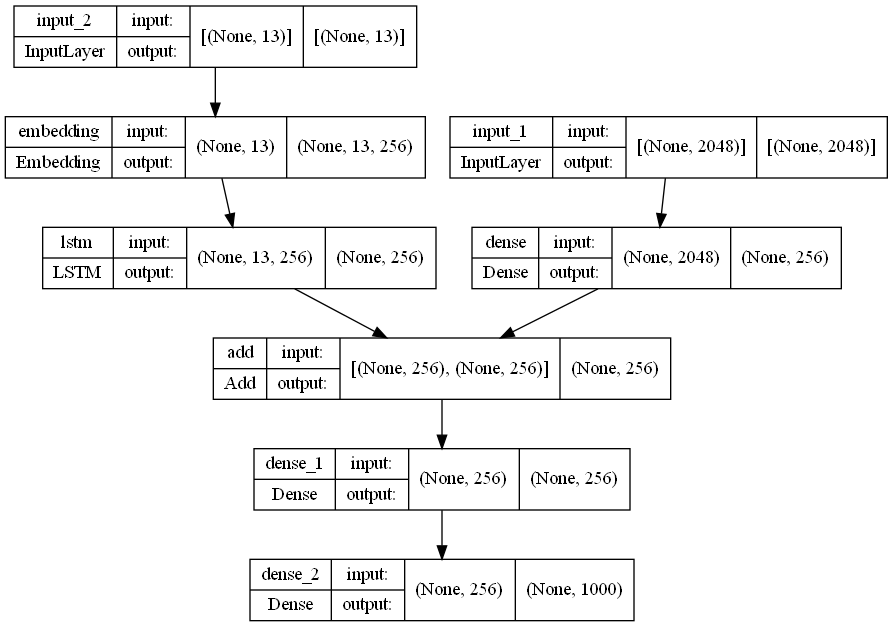
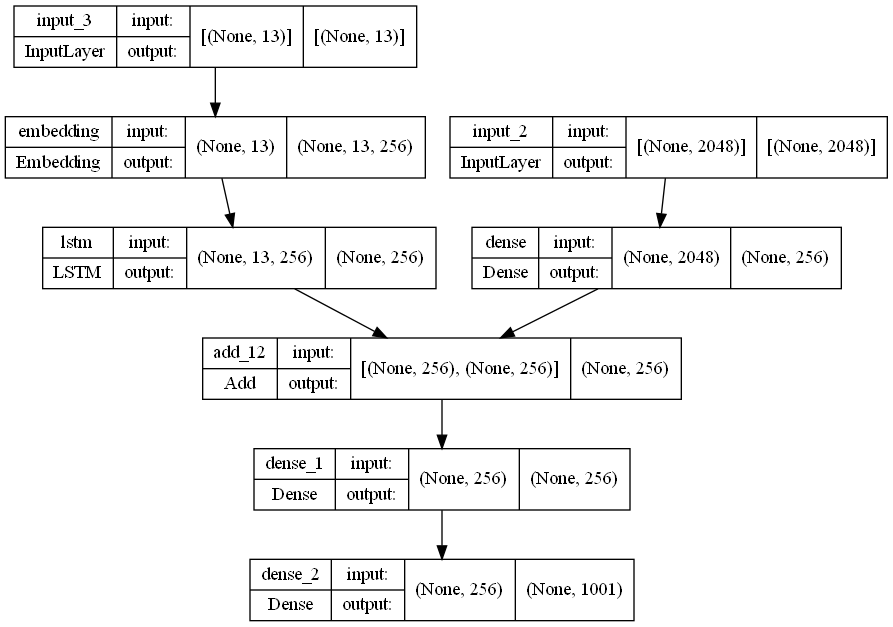
Finish base implementation

Changed region(s): [[0.2116, 0.5455, 0.7559, 0.6364]]

diff --git a/equation_parser/equation_generator.py b/equation_parser/equation_generator.py
@@ -65,9 +65,6 @@ def to_clean_tokens(rand_numbers):
 
 
 class EquationGenerator:
-    def __init__(self, feature_extractor_model):
-        self.feature_extractor_model = feature_extractor_model
-
     def generate_equation_image(self, dpi=600, cache=True) -> (Image, str):
         rand_numbers = [rand_frac_number() for _ in range(6)]
         eq_latex = r'\frac{{{a_num}}}{{{a_denom}}}+\frac{{{b_num}}}{{{b_denom}}}=\frac{{{c_num}}}{{{c_denom}}}'.format(
@@ -105,8 +102,7 @@ class EquationGenerator:
                 writer.writerow(TOKENS_HEADERS)
 
         cached_eq_id = self.cache_image(eq_image, eq_tokens)
-        features = self.cache_image_features(eq_image, cached_eq_id)
-        return (eq_image, eq_tokens, features, cached_eq_id)
+        return (cached_eq_id, eq_tokens)
 
     def cache_image(self, eq_image, eq_tokens):
         eq_id = uuid.uuid4()
@@ -116,28 +112,7 @@ class EquationGenerator:
 
         eq_image.save(f'{CACHE_DIR}/{eq_id}.bmp')
 
-        return eq_id
-
-    def cache_image_features(self, eq_image, uuid):
-        features_filename = f'{CACHE_DIR}/{FEATURES_FILENAME_PREFIX}-{uuid}.p'
-        if os.path.isfile(features_filename):
-            return
-
-        eq_image = eq_image.resize(
-            (100, 100), resample=PIL.Image.BILINEAR)
-        eq_image = eq_image.convert('RGB')
-        eq_image_data = image.img_to_array(eq_image)
-        image_to_predict = np.expand_dims(eq_image_data, axis=0)
-
-        features = self.feature_extractor_model.predict(image_to_predict)
-        features = np.array(features[0]).astype('float32')
-        pickle.dump(features, open(features_filename, 'wb'))
-
-        return features
-
-    def features_from_equation_id(self, eq_id):
-        feature_filename = f'{CACHE_DIR}/{FEATURES_FILENAME_PREFIX}-{eq_id}.p'
-        return pickle.load(open(feature_filename, 'rb'))
+        return str(eq_id)
 
     def images_cached(self):
         return os.path.isdir(CACHE_DIR) and len(
@@ -154,14 +129,6 @@ class EquationGenerator:
             for row in reader:
                 eq_id = row[TOKENS_HEADERS[0]]
                 tokens = row[TOKENS_HEADERS[1]]
-
-                if os.path.isfile(f'{CACHE_DIR}/{eq_id}.bmp'):
-                    eq_image = PIL.Image.open(f'{CACHE_DIR}/{eq_id}.bmp')
-                else:
-                    eq_image = None
-
-                features = self.features_from_equation_id(eq_id)
-
-                equations.append((eq_image, tokens, features, eq_id))
+                equations.append((eq_id, tokens))
 
         return equations

diff --git a/equation_parser/equation_parser.py b/equation_parser/equation_parser.py
@@ -22,17 +22,22 @@ TRAIN = False
 if "train" in str(sys.argv[1]).lower():
     TRAIN = True
 
-EQUATION_COUNT = 1000
+EQUATION_COUNT = 2000
 EPOCHS = 10
 
 
 class EquationParser:
     def train_model(self):
-        equation_texts, equation_features = EquationPreprocessor(
-            EQUATION_COUNT).load_equations()
+        equation_preprocessor = EquationPreprocessor(
+            EQUATION_COUNT)
+        equation_preprocessor.load_equations()
+        equation_texts = equation_preprocessor.equation_texts
+        equation_features = equation_preprocessor.equation_features
+
         tokenizer = EquationTokenizer(equation_texts).load_tokenizer()
         vocab_size = len(tokenizer.word_index) + 1
         steps = len(equation_texts)
+
         data_generator = DataGenerator(vocab_size)
         model = CaptionModel(vocab_size)
 
@@ -40,15 +45,19 @@ class EquationParser:
         print('Photos: train=', len(equation_features))
         print('Vocabulary Size:', vocab_size)
 
-        # [a, b], c = next(data_generator.data_generator(
-        #     equation_texts, equation_features, tokenizer))
-        # print(a.shape, b.shape, c.shape)
+        [a, b], c = next(data_generator.data_generator(
+            equation_texts, equation_features, tokenizer))
+        print(a.shape, b.shape, c.shape)
+
         model.load_model()
-        generator = data_generator.data_generator(
+        train_generator = data_generator.data_generator(
             equation_texts, equation_features, tokenizer)
+        validation_generator = data_generator.data_generator(
+            equation_texts, equation_features, tokenizer)
+
         history = model.model.fit(
-            generator, epochs=EPOCHS, steps_per_epoch=steps)
-        model.save_model(1)
+            train_generator, validation_data=validation_generator, epochs=EPOCHS, steps_per_epoch=steps, validation_steps=steps)
+        model.save_model()
 
         plt.subplot(2, 2, 1)
         plt.plot(history.history['accuracy'], label='accuracy')

diff --git a/equation_parser/equation_preprocessor.py b/equation_parser/equation_preprocessor.py
@@ -1,6 +1,7 @@
 from .tokens import START_TOKEN, END_TOKEN
 from .base_resnet_model import BaseResnetModel
 from .equation_generator import EquationGenerator
+from .feature_extractor import FeatureExtractor
 
 
 def padded_equation_text(equation_text):
@@ -10,23 +11,25 @@ def padded_equation_text(equation_text):
 class EquationPreprocessor:
     def __init__(self, equation_count):
         self.equation_count = equation_count
-        self.base_resnet_model = BaseResnetModel()
+        self.feature_extractor = FeatureExtractor()
         self.equation_texts = {}
         self.equation_features = {}
 
     def load_equations(self):
-        self.base_resnet_model.load_model()
-        generator = EquationGenerator(self.base_resnet_model.model)
+        print('Loading equation data...')
+        equation_generator = EquationGenerator()
         equations = []
-        if generator.images_cached():
-            equations = generator.equations_from_cache()[
+        if equation_generator.images_cached():
+            print('Equation texts cached. Loading texts from cache...')
+            equations = equation_generator.equations_from_cache()[
                 :self.equation_count]
         else:
+            print('Equation texts not cached. Generating images and texts...')
             for i in range(self.equation_count):
-                equations.append(generator.generate_equation_image())
+                equations.append(equation_generator.generate_equation_image())
 
         for eq in equations:
-            self.equation_texts[eq[3]] = padded_equation_text(eq[1])
-            self.equation_features[eq[3]] = eq[2]
+            self.equation_texts[eq[0]] = padded_equation_text(eq[1])
 
-        return (self.equation_texts, self.equation_features)
+        self.feature_extractor.load_features()
+        self.equation_features = self.feature_extractor.features

diff --git a/equation_parser/feature_extractor.py b/equation_parser/feature_extractor.py
@@ -1,0 +1,46 @@
+import os
+import PIL
+import pickle
+import numpy as np
+
+from tensorflow.keras import applications
+
+FEATURES_PATH = './equation_parser/data/features.p'
+IMAGES_PATH = './equation_parser/data/'
+
+
+class FeatureExtractor:
+    def __init__(self):
+        self.model = applications.Xception(include_top=False, pooling='avg')
+        self.features = {}
+
+    def load_features(self):
+        print('Loading equation image features...')
+        if os.path.isfile(FEATURES_PATH):
+            print('Equation image features cached. Loading features from cache...')
+            self.features = pickle.load(open(FEATURES_PATH, 'rb'))
+            return
+
+        print('Equation image features not cached. Generating features...')
+        self.generate_features()
+
+    def generate_features(self):
+        for filename in os.listdir(IMAGES_PATH):
+            if not filename.endswith('.bmp'):
+                continue
+
+            image = PIL.Image.open(os.path.join(IMAGES_PATH, filename))
+            image = image.resize((299, 299))
+            image = np.expand_dims(image, axis=0)
+            image = image / 127.5
+            image = image - 1.0
+
+            feature = self.model.predict(image)[0]
+            self.features[filename.split('.')[0]] = feature
+
+        print('Features generated. Saving features...')
+        self.save_features()
+
+    def save_features(self):
+        pickle.dump(self.features, open(FEATURES_PATH, 'wb'))
+        print('Features saved to ', FEATURES_PATH)

diff --git a/equation_parser/equation_tokenizer.py b/equation_parser/equation_tokenizer.py
@@ -13,10 +13,17 @@ class EquationTokenizer:
         return list(self.equation_texts.values())
 
     def load_tokenizer(self):
+        print('Loading equation text tokenizer...')
         if os.path.isfile(TOKENIZER_PATH):
+            print('Tokenizer cached. Loading tokenizer from cache...')
             return pickle.load(open(TOKENIZER_PATH, 'rb'))
 
+        print('Tokenizer not cached. Fitting new tokenizer...')
         tokenizer = Tokenizer()
         tokenizer.fit_on_texts(self.equation_texts_list())
+
+        print('Tokenizer fitted. Saving tokenizer to cache...')
         pickle.dump(tokenizer, open(TOKENIZER_PATH, 'wb'))
+        print('Tokenizer saved.')
+
         return tokenizer

diff --git a/equation_parser/caption_model.py b/equation_parser/caption_model.py
@@ -15,7 +15,7 @@ class CaptionModel:
         self.vocab_size = vocab_size
 
     def create_model(self):
-        # extracted features from resnet (end of resnet os a 1000 node fc)
+        # extracted features from xception
         inputs1 = layers.Input(shape=(2048,))
         # fe1 = layers.Dropout(0.5)(inputs1)
         fe2 = layers.Dense(256, activation='relu')(inputs1)
